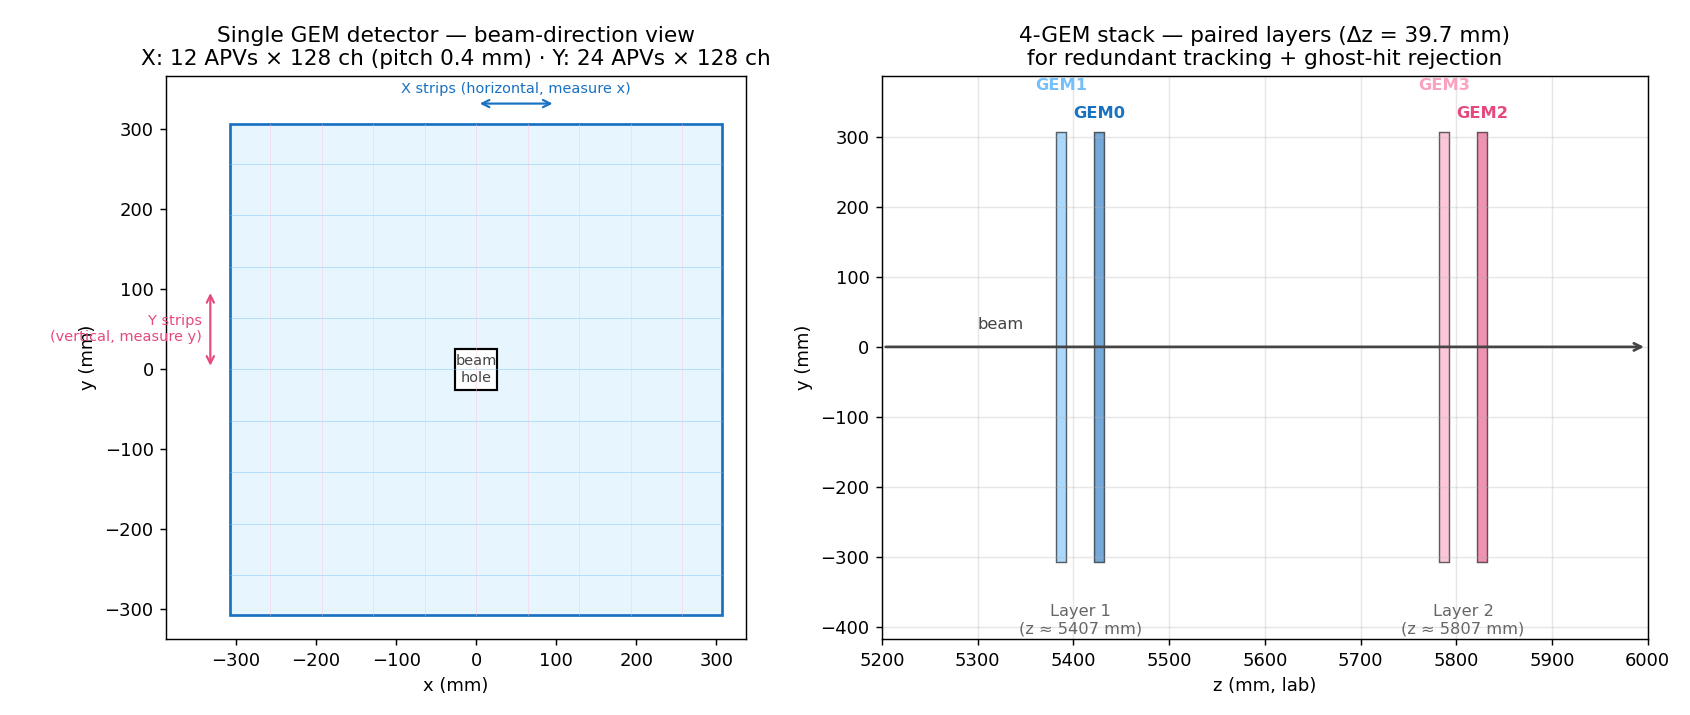
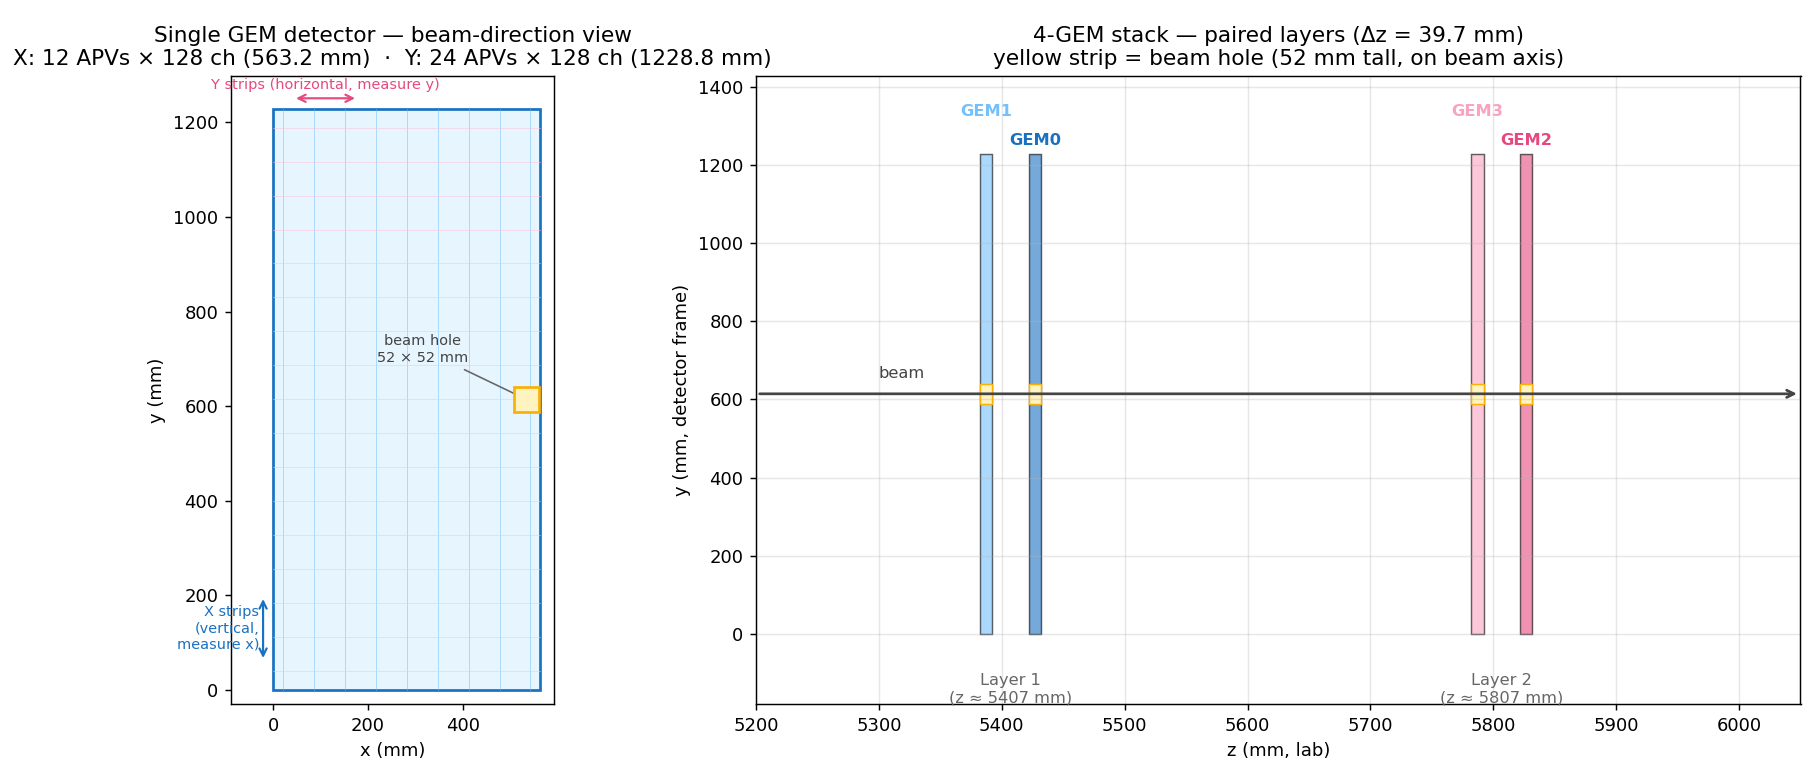
update gem clustering docs

Changed region(s): [[0.0, 0.0308, 1.0, 0.9846], [0.0615, 0.8308, 0.0923, 0.8615]]

diff --git a/docs/prad2det/plot_gem_clustering.py b/docs/prad2det/plot_gem_clustering.py
@@ -13,6 +13,7 @@ Run:
   python plot_gem_clustering.py
 """
 
+import json
 import numpy as np
 import matplotlib.pyplot as plt
 from matplotlib.patches import Rectangle, FancyArrowPatch, Patch
@@ -20,15 +21,64 @@ from matplotlib.lines import Line2D
 from pathlib import Path
 
 HERE = Path(__file__).parent
+DB   = HERE.parent.parent / 'database' / 'gem_daq_map.json'
+
 
 # ---------------------------------------------------------------------------
-# Geometry constants (PRad-II GEM, gem_daq_map.json)
+# Strip-mapping (mirrors gem::buildStripMap in prad2det) — used to derive
+# the actual X/Y plane size and beam-hole position from gem_daq_map.json.
 # ---------------------------------------------------------------------------
-PITCH       = 0.4   # mm
-HOLE_W      = 52.0  # mm (beam hole width)
-HOLE_H      = 52.0  # mm
-DET_W       = 614.4 # X plane: 12 APVs × 128 ch × 0.4 mm
-DET_H       = 614.4 # Y plane: 24 APVs but two-halves around the hole
+def map_strip(ch, pos, orient, pin_rotate=0, shared_pos=-1,
+              hybrid_board=True, N=128, readout_center=32):
+    readout_off = readout_center + pin_rotate
+    eff_pos = shared_pos if shared_pos >= 0 else pos
+    plane_shift = (eff_pos - pos) * N - pin_rotate
+    strip = 32 * (ch % 4) + 8 * (ch // 4) - 31 * (ch // 16)
+    if hybrid_board:
+        strip = strip + 1 + strip % 4 - 5 * ((strip // 4) % 2)
+    if readout_off > 0:
+        if strip & 1:
+            strip = readout_off - (strip + 1) // 2
+        else:
+            strip = readout_off + strip // 2
+    strip &= (N - 1)
+    if orient == 1:
+        strip = (N - 1) - strip
+    strip += plane_shift + pos * N
+    return strip
+
+
+_raw = json.loads(DB.read_text(encoding='utf-8'))
+_apv_ch = _raw.get('apv_channels', 128)
+_ro_c   = _raw.get('readout_center', 32)
+_apvs   = [a for a in _raw['apvs'] if isinstance(a, dict) and 'crate' in a]
+
+# All four GEMs are identical — derive geometry from det 0
+_det0 = [a for a in _apvs if a.get('det') == 0]
+def _strips_of(plane):
+    out = []
+    match = []
+    for a in (x for x in _det0 if x.get('plane') == plane):
+        pin_r = a.get('pin_rotate') or 0
+        sp    = a.get('shared_pos') if a.get('shared_pos') is not None else -1
+        for ch in range(_apv_ch):
+            s = map_strip(ch, a['pos'], a.get('orient', 0), pin_r, sp,
+                          a.get('hybrid_board', True), _apv_ch, _ro_c)
+            out.append(s)
+            if a.get('match'):
+                match.append(s)
+    return out, match
+
+_xs, _xs_match = _strips_of('X')
+_ys, _ys_match = _strips_of('Y')
+
+PITCH  = _raw['layers'][0].get('x_pitch', 0.4)
+HOLE_W = _raw['hole']['width']
+HOLE_H = _raw['hole']['height']
+DET_W  = (max(_xs) + 1) * PITCH                              # 563.2 mm
+DET_H  = (max(_ys) + 1) * PITCH                              # 1228.8 mm
+HOLE_CX = (min(_xs_match) + max(_xs_match) + 1) / 2 * PITCH  # 534.4 mm — off-centre
+HOLE_CY = DET_H / 2                                          # 614.4 mm
 
 
 # ---------------------------------------------------------------------------
@@ -111,44 +161,70 @@ def _split_recursive(group, thres):
 # ---------------------------------------------------------------------------
 # Plot 1 — GEM detector layout
 # ---------------------------------------------------------------------------
-fig, (axA, axB) = plt.subplots(1, 2, figsize=(13, 5.5),
-                                gridspec_kw={'width_ratios': [1, 1.2]})
+# Coordinate convention: origin at the bottom-left of the detector, matching
+# the strip-numbering convention (strip 0 ≡ x = 0 / y = 0).  The beam hole
+# is *not* at the centre — it sits at (HOLE_CX, HOLE_CY) on the right side
+# of the X plane because APV positions 10/11 carry the half-strip "match"
+# pair that wraps around it.
+fig, (axA, axB) = plt.subplots(1, 2, figsize=(14, 6.0),
+                                gridspec_kw={'width_ratios': [1, 1.4]})
 
-# Panel A — beam-direction view of one detector (X strips horizontal, Y strips
-# vertical), showing the beam hole.
 ax = axA
-ax.add_patch(Rectangle((-DET_W / 2, -DET_H / 2), DET_W, DET_H,
+# detector outline
+ax.add_patch(Rectangle((0, 0), DET_W, DET_H,
                         facecolor='#e7f5ff', edgecolor='#1971c2', lw=1.5))
-# X strip indications (5 horizontal lines as visual cue)
-for y in np.linspace(-DET_H / 2 + 50, DET_H / 2 - 50, 9):
-    ax.plot([-DET_W / 2, DET_W / 2], [y, y], color='#74c0fc', lw=0.4, alpha=0.6)
-# Y strip indications (vertical)
-for x in np.linspace(-DET_W / 2 + 50, DET_W / 2 - 50, 9):
-    ax.plot([x, x], [-DET_H / 2, DET_H / 2], color='#fcc2d7', lw=0.4, alpha=0.6)
+
+# X-strip indications: vertical lines (constant x), broken at the hole
+n_xlines = 9
+for x in np.linspace(20, DET_W - 20, n_xlines):
+    if HOLE_CX - HOLE_W / 2 <= x <= HOLE_CX + HOLE_W / 2:
+        ax.plot([x, x], [0, HOLE_CY - HOLE_H / 2], color='#74c0fc', lw=0.4, alpha=0.7)
+        ax.plot([x, x], [HOLE_CY + HOLE_H / 2, DET_H], color='#74c0fc', lw=0.4, alpha=0.7)
+    else:
+        ax.plot([x, x], [0, DET_H], color='#74c0fc', lw=0.4, alpha=0.7)
+
+# Y-strip indications: horizontal lines (constant y), broken at the hole
+n_ylines = 17
+for y in np.linspace(40, DET_H - 40, n_ylines):
+    if HOLE_CY - HOLE_H / 2 <= y <= HOLE_CY + HOLE_H / 2:
+        ax.plot([0, HOLE_CX - HOLE_W / 2], [y, y], color='#fcc2d7', lw=0.4, alpha=0.7)
+        ax.plot([HOLE_CX + HOLE_W / 2, DET_W], [y, y], color='#fcc2d7', lw=0.4, alpha=0.7)
+    else:
+        ax.plot([0, DET_W], [y, y], color='#fcc2d7', lw=0.4, alpha=0.7)
+
 # beam hole
-ax.add_patch(Rectangle((-HOLE_W / 2, -HOLE_H / 2), HOLE_W, HOLE_H,
-                        facecolor='white', edgecolor='#000', lw=1.2))
-ax.text(0, 0, 'beam\nhole', ha='center', va='center', fontsize=8, color='#444')
+ax.add_patch(Rectangle((HOLE_CX - HOLE_W / 2, HOLE_CY - HOLE_H / 2),
+                        HOLE_W, HOLE_H,
+                        facecolor='#fff3bf', edgecolor='#fab005', lw=1.5,
+                        zorder=5))
+ax.annotate('beam hole\n52 × 52 mm',
+            xy=(HOLE_CX, HOLE_CY),
+            xytext=(HOLE_CX - 220, HOLE_CY + 80),
+            fontsize=8, color='#444', ha='center',
+            arrowprops=dict(arrowstyle='->', lw=0.9, color='#666'))
 
 # strip-direction labels
-ax.annotate('', xy=(-DET_W / 2 - 25, 0), xytext=(-DET_W / 2 - 25, 100),
-            arrowprops=dict(arrowstyle='<->', lw=1.2, color='#e64980'))
-ax.text(-DET_W / 2 - 35, 50, 'Y strips\n(vertical, measure y)',
-        ha='right', va='center', fontsize=8, color='#e64980')
-ax.annotate('', xy=(0, DET_H / 2 + 25), xytext=(100, DET_H / 2 + 25),
+ax.annotate('', xy=(-22, 60), xytext=(-22, 200),
             arrowprops=dict(arrowstyle='<->', lw=1.2, color='#1971c2'))
-ax.text(50, DET_H / 2 + 35, 'X strips (horizontal, measure x)',
-        ha='center', va='bottom', fontsize=8, color='#1971c2')
+ax.text(-30, 130, 'X strips\n(vertical,\nmeasure x)',
+        ha='right', va='center', fontsize=8, color='#1971c2')
+ax.annotate('', xy=(40, DET_H + 22), xytext=(180, DET_H + 22),
+            arrowprops=dict(arrowstyle='<->', lw=1.2, color='#e64980'))
+ax.text(110, DET_H + 35, 'Y strips (horizontal, measure y)',
+        ha='center', va='bottom', fontsize=8, color='#e64980')
 
-ax.set_xlim(-DET_W / 2 - 80, DET_W / 2 + 30)
-ax.set_ylim(-DET_H / 2 - 30, DET_H / 2 + 60)
+ax.set_xlim(-90, DET_W + 30)
+ax.set_ylim(-30, DET_H + 70)
 ax.set_aspect('equal')
 ax.set_xlabel('x (mm)'); ax.set_ylabel('y (mm)')
-ax.set_title("Single GEM detector — beam-direction view\n"
-             "X: 12 APVs × 128 ch (pitch 0.4 mm) · Y: 24 APVs × 128 ch")
+ax.set_title(f"Single GEM detector — beam-direction view\n"
+             f"X: 12 APVs × 128 ch ({DET_W:.1f} mm)  ·  "
+             f"Y: 24 APVs × 128 ch ({DET_H:.1f} mm)")
 ax.grid(False)
 
-# Panel B — beam-axis arrangement of 4 detectors
+# Panel B — beam-axis arrangement of 4 detectors.  Vertical extent is
+# the full Y plane size (DET_H = 1228.8 mm); the beam crosses each
+# detector at the hole y-centre (HOLE_CY = DET_H/2).
 ax = axB
 detectors = [
     ('GEM0', 5407 + 39.71 / 2, '#1971c2'),
@@ -157,29 +233,32 @@ detectors = [
     ('GEM3', 5807 - 39.71 / 2, '#faa2c1'),
 ]
 for i, (name, z, col) in enumerate(detectors):
-    ax.add_patch(Rectangle((z - 5, -DET_H / 2), 10, DET_H,
+    ax.add_patch(Rectangle((z - 5, 0), 10, DET_H,
                             facecolor=col, edgecolor='black', lw=0.8, alpha=0.6))
     # alternate label heights so paired detectors don't collide
-    yoff = DET_H / 2 + (15 if i % 2 == 0 else 55)
+    yoff = DET_H + (15 if i % 2 == 0 else 90)
     ax.text(z, yoff, name, ha='center', va='bottom',
             fontsize=9, color=col, fontweight='bold')
+    # mark the beam-hole opening in each detector
+    ax.add_patch(Rectangle((z - 5, HOLE_CY - HOLE_H / 2), 10, HOLE_H,
+                            facecolor='#fff3bf', edgecolor='#fab005', lw=0.8))
 
-# beam line
-ax.annotate('', xy=(6000, 0), xytext=(5200, 0),
+# beam line (passes through the hole y-centre)
+ax.annotate('', xy=(6050, HOLE_CY), xytext=(5200, HOLE_CY),
             arrowprops=dict(arrowstyle='->', lw=1.5, color='#444'))
-ax.text(5300, 25, 'beam', fontsize=9, color='#444')
+ax.text(5300, HOLE_CY + 40, 'beam', fontsize=9, color='#444')
 
-ax.text(5407, -DET_H / 2 - 60, 'Layer 1\n(z ≈ 5407 mm)',
+ax.text(5407, -100, 'Layer 1\n(z ≈ 5407 mm)',
         ha='center', va='top', fontsize=9, color='#666')
-ax.text(5807, -DET_H / 2 - 60, 'Layer 2\n(z ≈ 5807 mm)',
+ax.text(5807, -100, 'Layer 2\n(z ≈ 5807 mm)',
         ha='center', va='top', fontsize=9, color='#666')
 
-ax.set_xlim(5200, 6000)
-ax.set_ylim(-DET_H / 2 - 110, DET_H / 2 + 80)
+ax.set_xlim(5200, 6050)
+ax.set_ylim(-180, DET_H + 200)
 ax.set_xlabel('z (mm, lab)')
-ax.set_ylabel('y (mm)')
+ax.set_ylabel('y (mm, detector frame)')
 ax.set_title("4-GEM stack — paired layers (Δz = 39.7 mm)\n"
-             "for redundant tracking + ghost-hit rejection")
+             "yellow strip = beam hole (52 mm tall, on beam axis)")
 ax.grid(alpha=0.3)
 ax.set_aspect('auto')
 

diff --git a/docs/prad2det/gem_clustering.md b/docs/prad2det/gem_clustering.md
@@ -24,9 +24,9 @@ out two orthogonal strip planes through APV25 chips at 0.4 mm pitch:
 |---|---|
 | detectors | GEM0, GEM1 (layer 1, z ≈ 5407 mm); GEM2, GEM3 (layer 2, z ≈ 5807 mm) |
 | inter-detector spacing | 39.7 mm (within a layer) |
-| X plane | 12 APVs × 128 ch = 1 536 strips, pitch 0.4 mm |
-| Y plane | 24 APVs × 128 ch = 3 072 strips, pitch 0.4 mm (split around the beam hole) |
-| beam hole | 52 × 52 mm² central cut-out |
+| X plane | 12 APVs × 128 ch, pitch 0.4 mm — 1 408 strips ≈ 563.2 mm. APV positions 10/11 share strips around the hole (`shared_pos: 10`, `pin_rotate: 16`) |
+| Y plane | 24 APVs × 128 ch, pitch 0.4 mm — 3 072 strips ≈ 1 228.8 mm. Strips that cross the hole y-band are split into top + bottom segments |
+| beam hole | 52 × 52 mm², centred vertically (y = 614.4 mm) and offset along x (x = 534.4 mm) — sits inside the APV pos 10/11 strip range |
 
 Strip indices come from `GemSystem::ProcessEvent()` after pedestal
 subtraction, common-mode correction, and zero-suppression. Each
